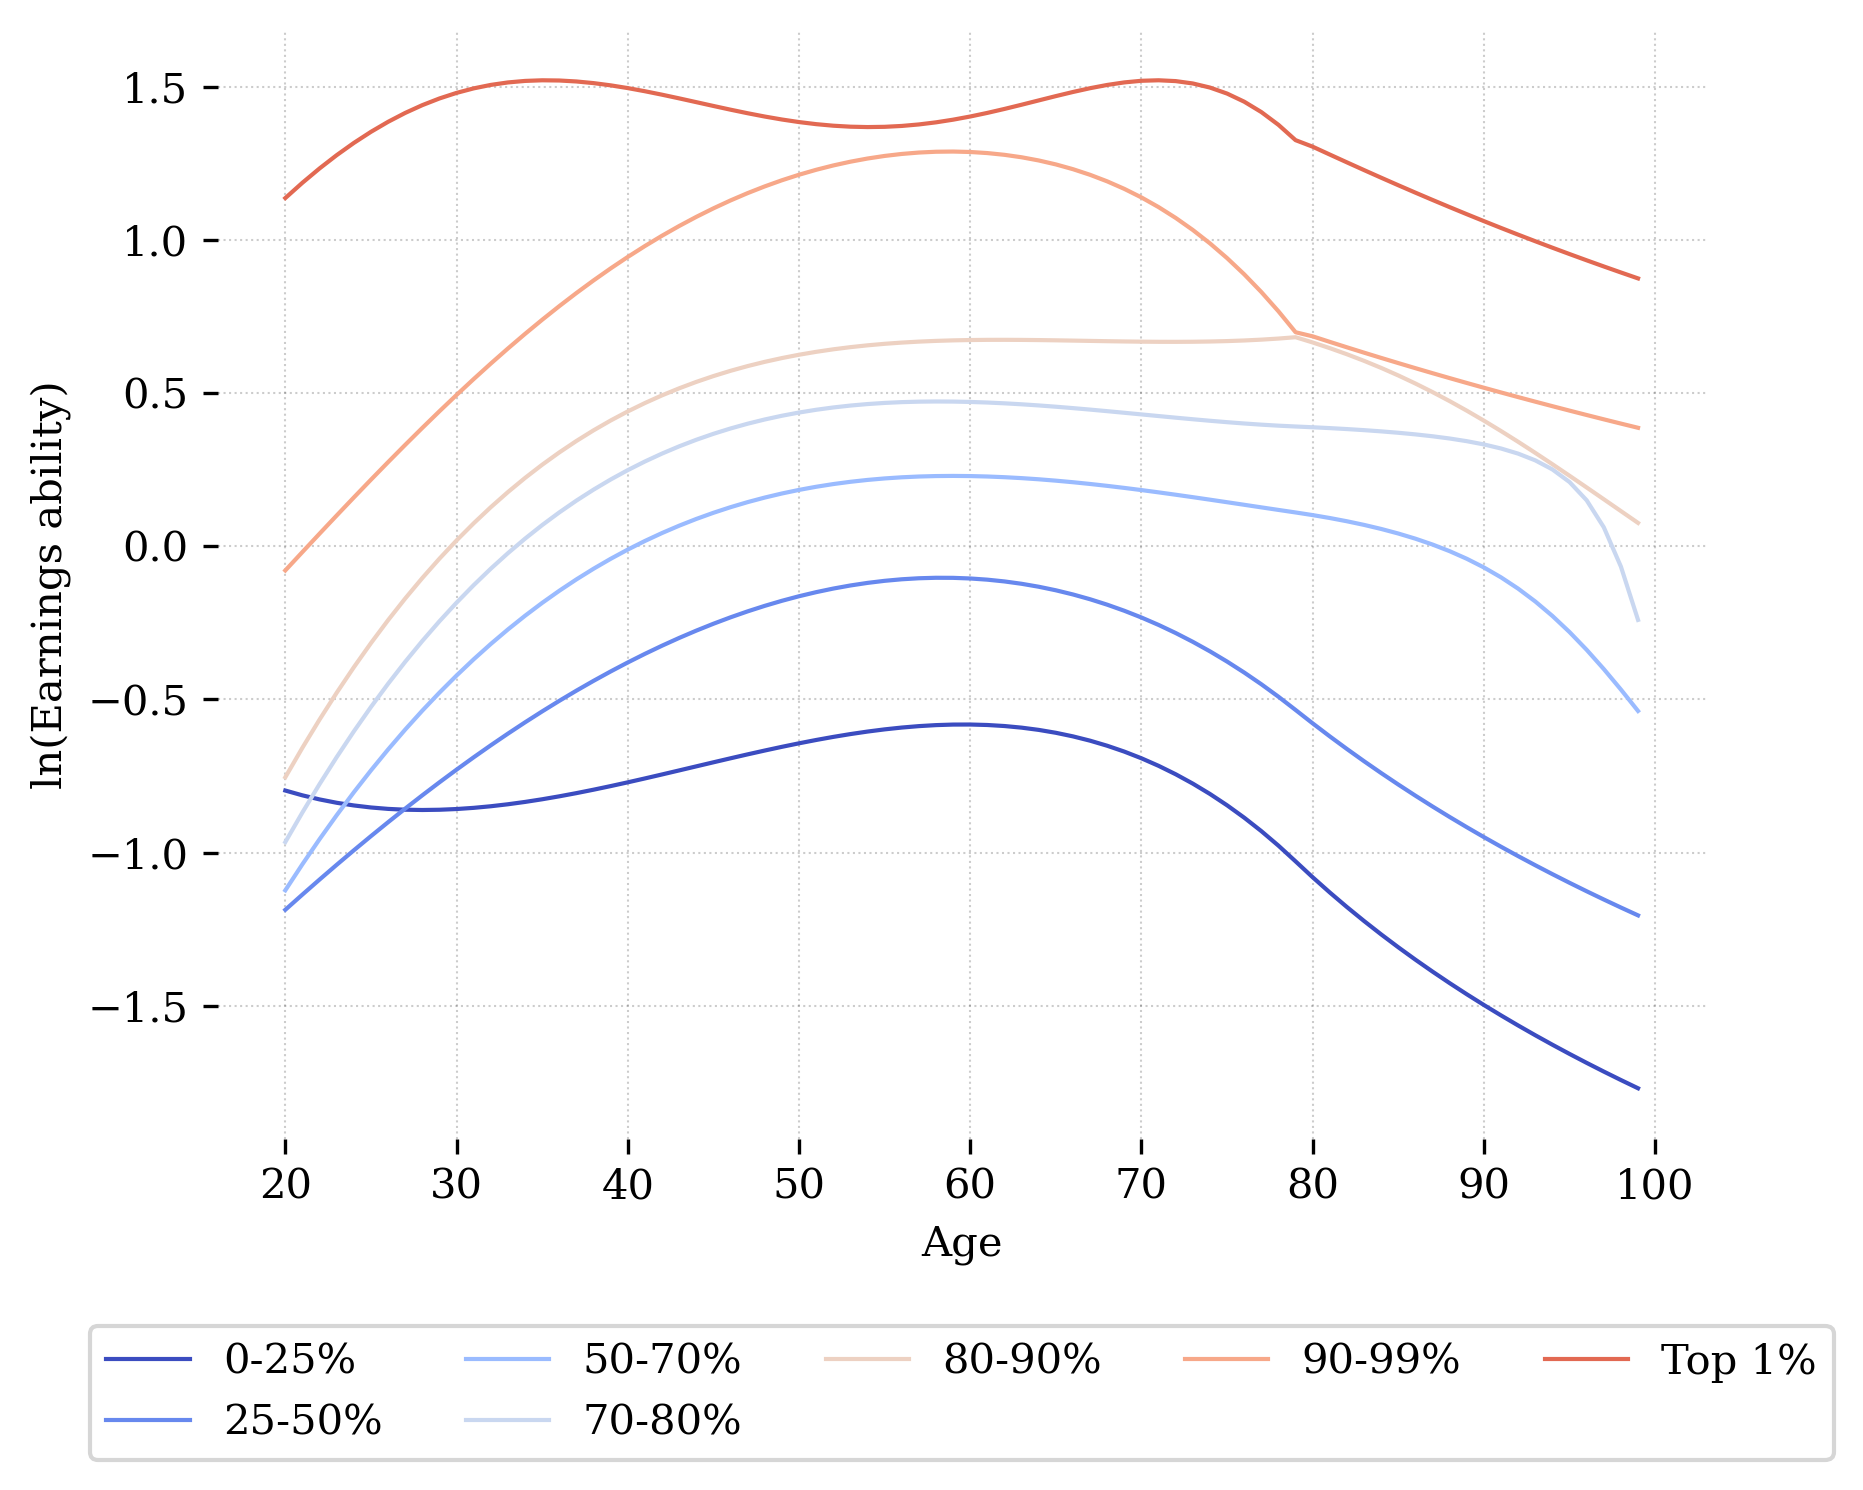
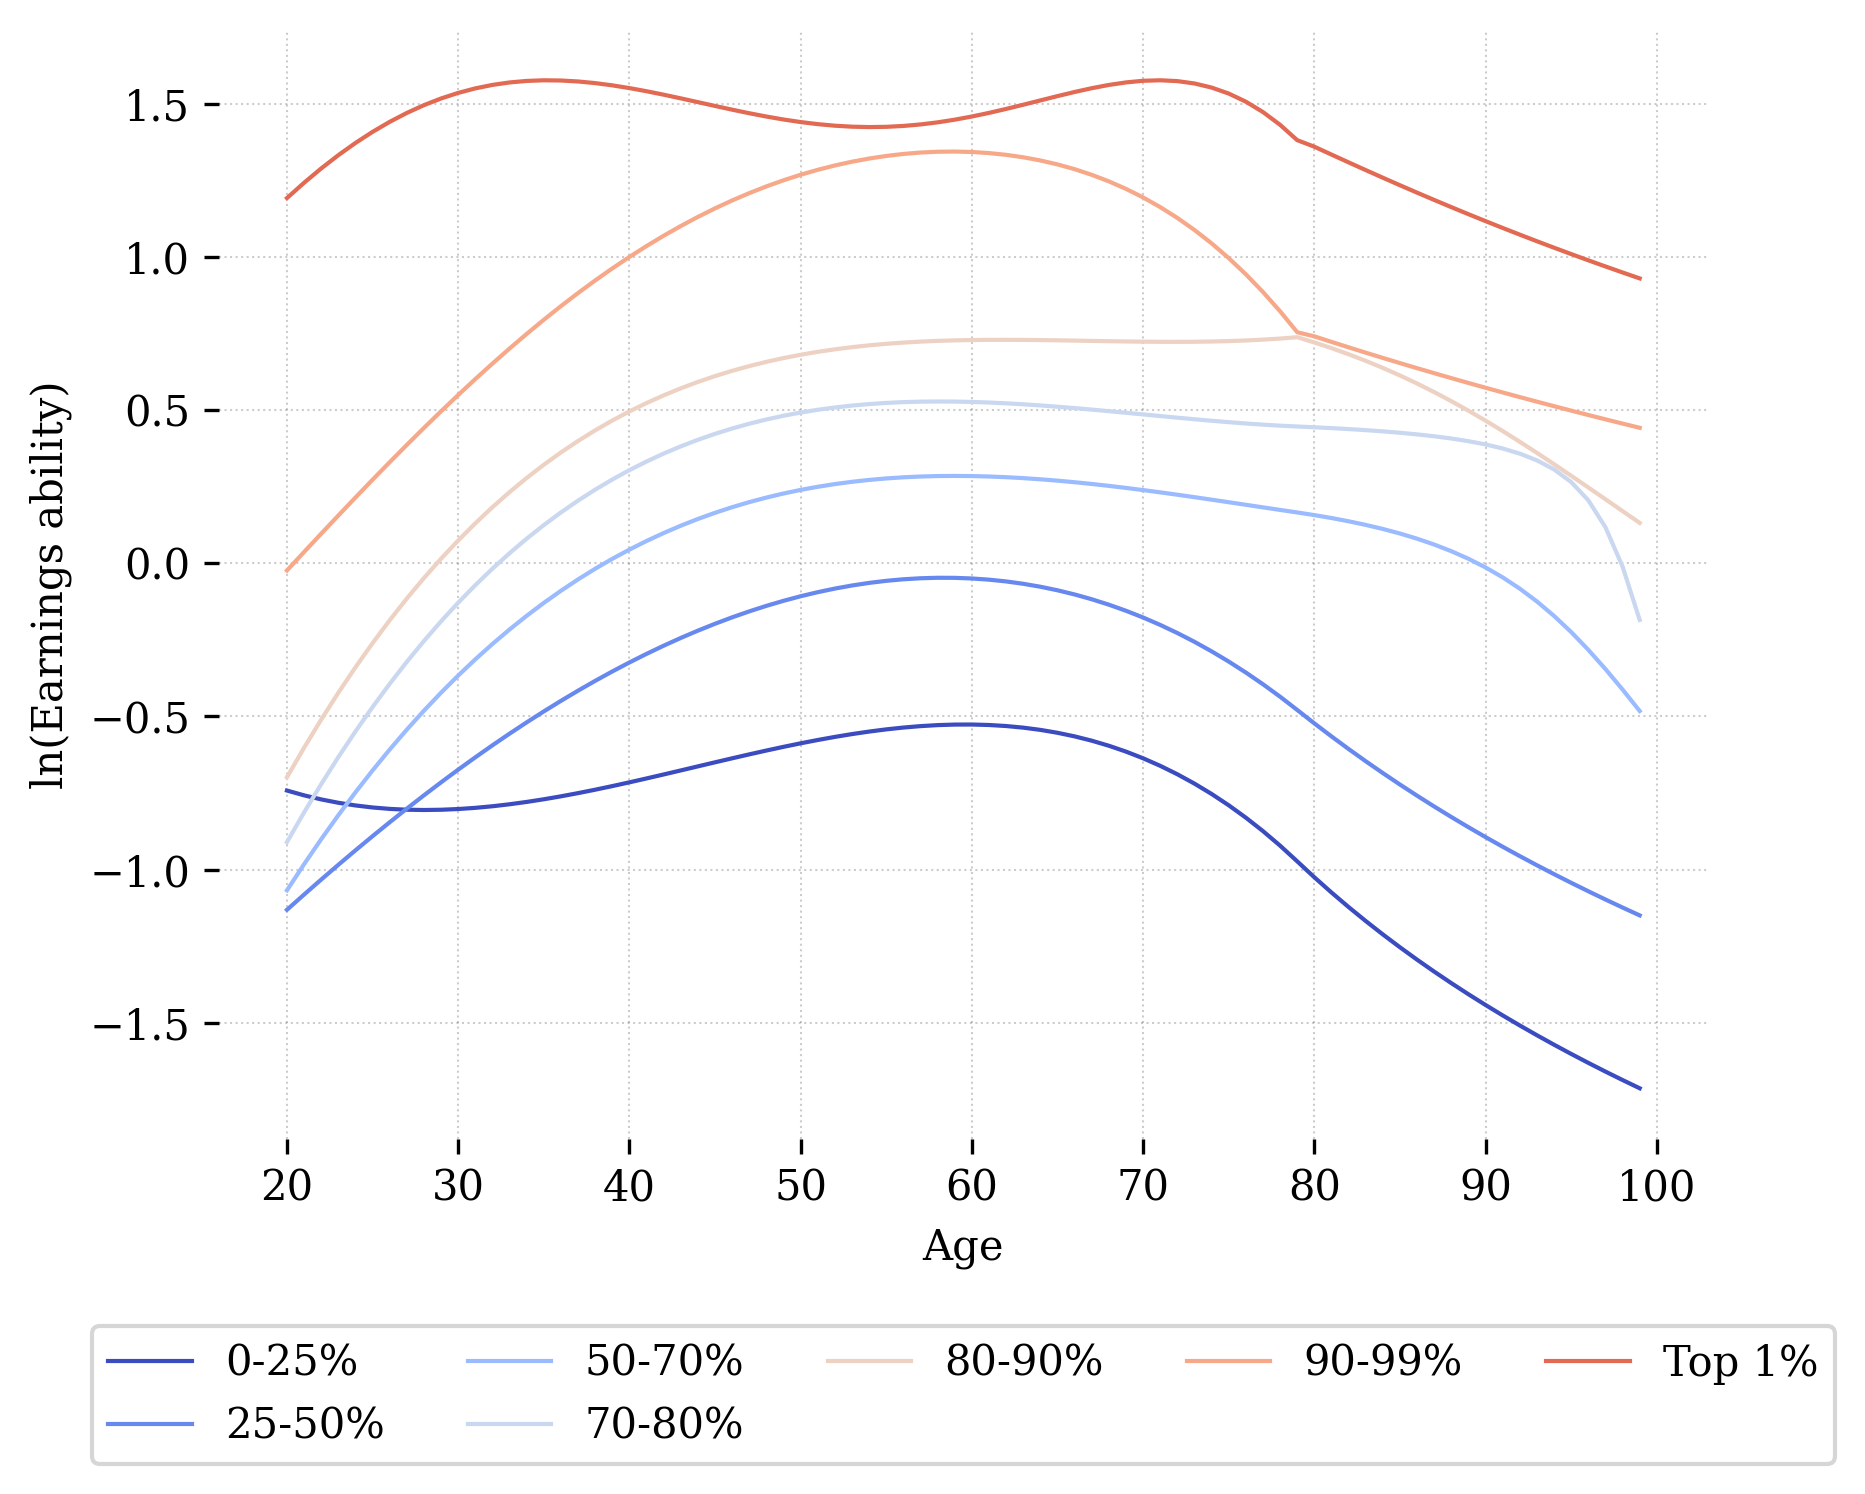
Update demographics docs table and figures for Ethiopia

diff --git a/docs/book/content/calibration/images/exogenous_parameters_table.md b/docs/book/content/calibration/images/exogenous_parameters_table.md
@@ -76,8 +76,8 @@
 | $\texttt{mindist_SS}$         | SS solution tolerance                                                                                                        | 1.00E-09                                              |
 | $\texttt{mindist_TPI}$        | TPI solution tolerance                                                                                                       | 1.00E-05                                              |
 | $\omega_{s,t}$                | Population by age over time                                                                                                  | Too large to report here, see default parameters JSON |
-| $\bar{\omega}_s$              | Steady-state population distribution                                                                                         | [0.022...0.000]                                       |
-| $g_{n,t}$                     | Population growth rate over the time path                                                                                    | [0.013...0.004]                                       |
-| $\bar{g}_n$                   | Population growth rate in the steady-state                                                                                   | 0.004                                                 |
+| $\bar{\omega}_s$              | Steady-state population distribution                                                                                         | [0.032...0.000]                                       |
+| $g_{n,t}$                     | Population growth rate over the time path                                                                                    | [0.035...0.020]                                       |
+| $\bar{g}_n$                   | Population growth rate in the steady-state                                                                                   | 0.020                                                 |
 | $i_{s,t}$                     | Immigration rates by age                                                                                                     | Too large to report here, see default parameters JSON |
 | $\rho_{s,t}$                  | Mortality rates by age                                                                                                       | Too large to report here, see default parameters JSON |
